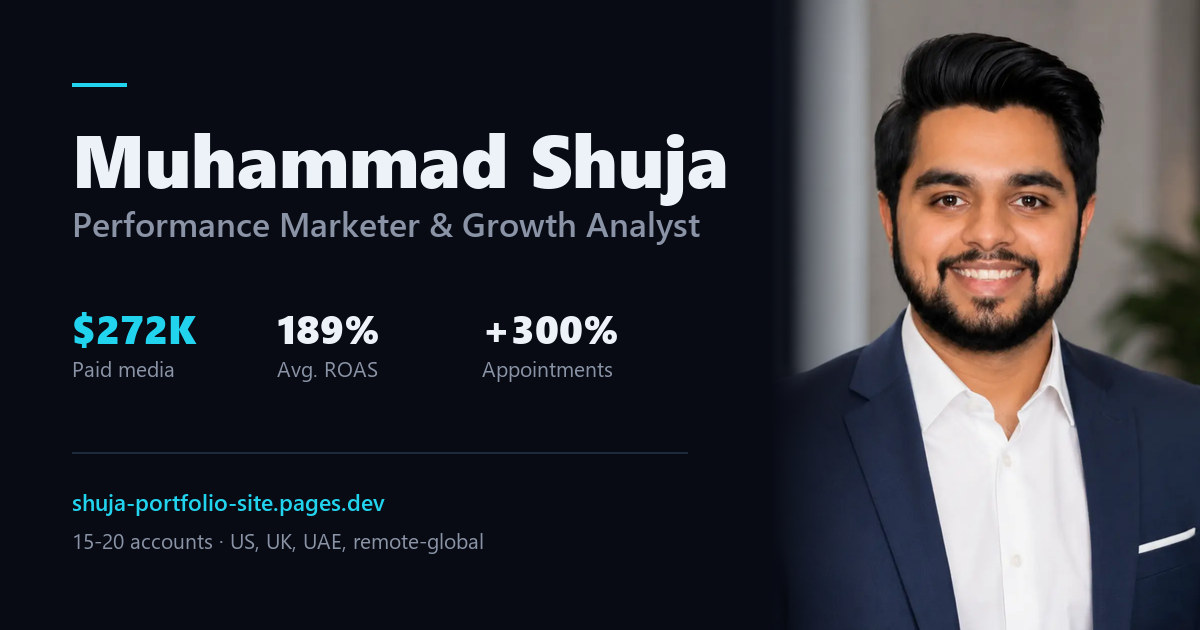
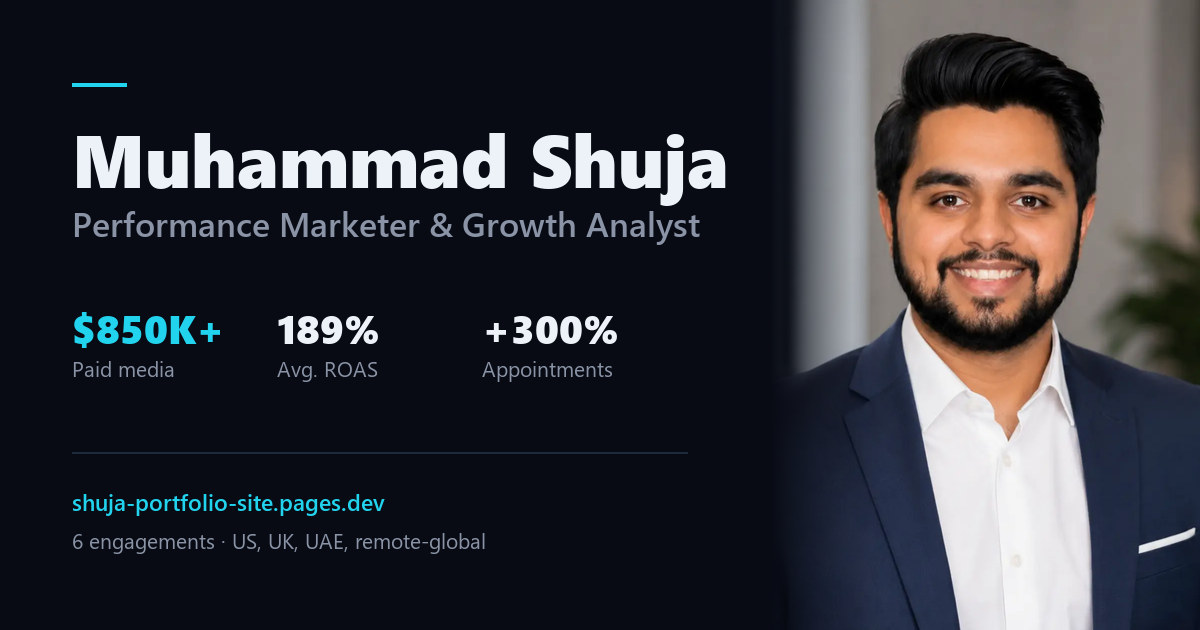
Attach the spend figures to the right scopes
The site published two cumulative paid-media numbers that contradicted each
other: $850K+ (21 occurrences, including the Brandwise case study's title,
h1 and metric strip) and $272K (the homepage hero, meta description and OG
card). A reader who saw both concluded one was inflated, which is fatal on a
site whose whole argument is that the numbers can be trusted.

Neither number was wrong. They were attached to the wrong places. $850K+ is
the career total across all six engagements; $272K is the Brandwise
engagement specifically. The homepage was publishing the client figure as
the career total, and the case study was publishing the career total as the
client figure.

Career-wide surfaces (hero stat, meta and og descriptions, OG card, KPI
tile, llms.txt, resume.json summary) now read $850K+. Brandwise surfaces
(case study, its cards on the homepage and work hub, the about narrative,
the PrimaCare teaser, resume.json bullet, llms.txt entries) now read $272K.

Account counts follow the same correction. Brandwise was the only agency
role, so it is the only engagement with a portfolio of accounts; 15-20 now
appears there and nowhere else. Career-wide claims count engagements and
markets instead, which is what they actually measure.

18.6x was also appearing portfolio-wide in three places despite being a
single Food Crowd result: the hero stat (now 189% average client ROAS, the
real portfolio-wide figure), the ticker, and the KPI tile. All three are now
[…]

Changed region(s): [[0.0617, 0.8444, 0.4008, 0.8746], [0.0617, 0.4825, 0.185, 0.5429]]

diff --git a/site/index.html b/site/index.html
@@ -4,15 +4,15 @@
 <meta charset="UTF-8">
 <meta name="viewport" content="width=device-width, initial-scale=1.0">
 <title>Muhammad Shuja · Performance Marketer & Growth Analyst</title>
-<meta name="description" content="Performance marketer and growth analyst. $272K paid media across 15-20 accounts, 189% average ROAS, +300% appointments, +134% online sales, CTR 11%-43%.">
+<meta name="description" content="Performance marketer and growth analyst. $850K+ paid media across 4 markets, 189% average ROAS, +300% appointments, +134% online sales, CTR 11%-43%.">
 <link rel="canonical" href="https://shuja-portfolio-site.pages.dev/">
 <meta property="og:type" content="website">
 <meta property="og:title" content="Muhammad Shuja · Performance Marketer & Growth Analyst">
-<meta property="og:description" content="Performance marketer and growth analyst. $272K paid media across 15-20 accounts, 189% average ROAS, +300% appointments, +134% online sales, CTR 11%-43%.">
+<meta property="og:description" content="Performance marketer and growth analyst. $850K+ paid media across 4 markets, 189% average ROAS, +300% appointments, +134% online sales, CTR 11%-43%.">
 <meta property="og:image" content="https://shuja-portfolio-site.pages.dev/assets/og-card.jpg">
 <meta property="og:image:width" content="1200">
 <meta property="og:image:height" content="630">
-<meta property="og:image:alt" content="Muhammad Shuja, performance marketer and growth analyst — $272K paid media, 189% average ROAS, +300% appointments">
+<meta property="og:image:alt" content="Muhammad Shuja, performance marketer and growth analyst — $850K+ paid media, 189% average ROAS, +300% appointments">
 <meta property="og:site_name" content="Muhammad Shuja">
 <meta name="author" content="Muhammad Shuja">
 <meta property="profile:first_name" content="Muhammad">
@@ -80,8 +80,8 @@ tracking console still mirrors the full dataLayer.  -->
   </div>
   <div class="wrap rv">
     <div class="hero-stats">
-      <div class="hstat"><div class="v">$<span data-count="272">0</span>K</div><div class="l">Paid media managed</div></div>
-      <div class="hstat"><div class="v"><span data-count="18.6">0</span>x</div><div class="l">Peak campaign ROAS</div></div>
+      <div class="hstat"><div class="v">$<span data-count="850">0</span>K<em>+</em></div><div class="l">Paid media managed</div></div>
+      <div class="hstat"><div class="v"><span data-count="189">0</span>%</div><div class="l">Average client ROAS</div></div>
       <div class="hstat"><div class="v">+<span data-count="300">0</span>%</div><div class="l">Appointment growth, 12 mo</div></div>
       <div class="hstat"><div class="v">$<span data-count="120">0</span>K</div><div class="l">Payroll automated away</div></div>
     </div>
@@ -91,8 +91,8 @@ tracking console still mirrors the full dataLayer.  -->
 <!-- TICKER -->
 <div class="ticker" aria-hidden="true">
   <div class="ticker-track">
-    <span><b>ROAS</b> 18.6x <i>▲</i></span><span><b>CTR</b> 11%→43% <i>▲</i></span><span><b>APPOINTMENTS</b> +300% <i>▲</i></span><span><b>ONLINE SALES</b> +134% <i>▲</i></span><span><b>CPA</b> $2.66 <i>▼</i></span><span><b>MQL→SQL</b> +28% <i>▲</i></span><span><b>CAC</b> −31% <i>▼</i></span><span><b>PAYROLL</b> −$120K <i>▼</i></span><span><b>COMPLIANCE</b> 60%→99% <i>▲</i></span><span><b>CLIENT ROAS AVG</b> 189% <i>▲</i></span><span><b>REPEAT RATE</b> +37% <i>▲</i></span><span><b>BRAND RECALL</b> +225% <i>▲</i></span>
-    <span><b>ROAS</b> 18.6x <i>▲</i></span><span><b>CTR</b> 11%→43% <i>▲</i></span><span><b>APPOINTMENTS</b> +300% <i>▲</i></span><span><b>ONLINE SALES</b> +134% <i>▲</i></span><span><b>CPA</b> $2.66 <i>▼</i></span><span><b>MQL→SQL</b> +28% <i>▲</i></span><span><b>CAC</b> −31% <i>▼</i></span><span><b>PAYROLL</b> −$120K <i>▼</i></span><span><b>COMPLIANCE</b> 60%→99% <i>▲</i></span><span><b>CLIENT ROAS AVG</b> 189% <i>▲</i></span><span><b>REPEAT RATE</b> +37% <i>▲</i></span><span><b>BRAND RECALL</b> +225% <i>▲</i></span>
+    <span><b>FOOD CROWD ROAS</b> 18.6x <i>▲</i></span><span><b>CTR</b> 11%→43% <i>▲</i></span><span><b>APPOINTMENTS</b> +300% <i>▲</i></span><span><b>ONLINE SALES</b> +134% <i>▲</i></span><span><b>CPA</b> $2.66 <i>▼</i></span><span><b>MQL→SQL</b> +28% <i>▲</i></span><span><b>CAC</b> −31% <i>▼</i></span><span><b>PAYROLL</b> −$120K <i>▼</i></span><span><b>COMPLIANCE</b> 60%→99% <i>▲</i></span><span><b>CLIENT ROAS AVG</b> 189% <i>▲</i></span><span><b>REPEAT RATE</b> +37% <i>▲</i></span><span><b>BRAND RECALL</b> +225% <i>▲</i></span>
+    <span><b>FOOD CROWD ROAS</b> 18.6x <i>▲</i></span><span><b>CTR</b> 11%→43% <i>▲</i></span><span><b>APPOINTMENTS</b> +300% <i>▲</i></span><span><b>ONLINE SALES</b> +134% <i>▲</i></span><span><b>CPA</b> $2.66 <i>▼</i></span><span><b>MQL→SQL</b> +28% <i>▲</i></span><span><b>CAC</b> −31% <i>▼</i></span><span><b>PAYROLL</b> −$120K <i>▼</i></span><span><b>COMPLIANCE</b> 60%→99% <i>▲</i></span><span><b>CLIENT ROAS AVG</b> 189% <i>▲</i></span><span><b>REPEAT RATE</b> +37% <i>▲</i></span><span><b>BRAND RECALL</b> +225% <i>▲</i></span>
   </div>
 </div>
 
@@ -126,7 +126,7 @@ tracking console still mirrors the full dataLayer.  -->
     <div class="tiles rv">
       <div class="tile wide">
         <div class="t">Cumulative paid media managed</div>
-        <div class="k">$272K <small>across 15-20 accounts, 4 markets</small></div>
+        <div class="k">$850K+ <small>across 6 engagements, 4 markets</small></div>
         <svg viewBox="0 0 300 44" preserveAspectRatio="none" aria-hidden="true">
           <rect class="bar dim" x="0"  y="30" width="40" height="14"/><rect class="bar dim" x="44" y="24" width="40" height="20"/>
           <rect class="bar" x="88" y="16" width="40" height="28"/><rect class="bar" x="132" y="12" width="40" height="32"/>
@@ -134,7 +134,7 @@ tracking console still mirrors the full dataLayer.  -->
         </svg>
       </div>
       <div class="tile">
-        <div class="t">Peak campaign ROAS</div>
+        <div class="t">Best single engagement ROAS <small>Food Crowd</small></div>
         <div class="k">18.6x</div>
         <svg viewBox="0 0 100 44" aria-hidden="true">
           <path class="gauge-bg" d="M 12 40 A 38 38 0 0 1 88 40"/>
@@ -149,7 +149,7 @@ tracking console still mirrors the full dataLayer.  -->
           <path class="gauge-bg" d="M 12 40 A 38 38 0 0 1 88 40"/>
           <path class="gauge-fg" d="M 12 40 A 38 38 0 0 1 70 16"/>
         </svg>
-        <div class="c">20+ accounts, conversion-based only</div>
+        <div class="c">15-20 accounts, conversion-based only</div>
       </div>
       <div class="tile">
         <div class="t">CTR, controlled testing</div>
@@ -239,8 +239,8 @@ tracking console still mirrors the full dataLayer.  -->
       </a>
       <a class="card" href="work/brandwise.html" data-cta="card_brandwise">
         <span class="tag">agency · division build</span><h3>Brandwise</h3>
-        <div class="big">$850K+ <small>media managed</small></div>
-        <p>Built the digital division from zero to 20+ accounts. CTR 11%→43%, 189% average client ROAS, retention up 100%, 12 sites shipped.</p>
+        <div class="big">$272K <small>media managed</small></div>
+        <p>Built the digital division from zero to 15-20 accounts. CTR 11%→43%, 189% average client ROAS, retention up 100%, 12 sites shipped.</p>
         <span class="go">read case →</span>
       </a>
       <a class="card" href="work/al-aaraf.html" data-cta="card_alaaraf">

diff --git a/site/work/brandwise.html b/site/work/brandwise.html
@@ -3,16 +3,16 @@
 <head>
 <meta charset="UTF-8">
 <meta name="viewport" content="width=device-width, initial-scale=1.0">
-<title>Brandwise: Building a $850K+ Media Practice | Muhammad Shuja</title>
-<meta name="description" content="Built an agency's digital division from zero: $850K+ cumulative paid media across 20+ accounts, CTR 11%→43%, 189% average client ROAS, 100% retention lift, 12 sites shipped.">
+<title>Brandwise: Building a $272K Media Practice | Muhammad Shuja</title>
+<meta name="description" content="Built an agency's digital division from zero: $272K cumulative paid media across 15-20 accounts, CTR 11%→43%, 189% average client ROAS, 100% retention lift, 12 sites shipped.">
 <link rel="canonical" href="https://shuja-portfolio-site.pages.dev/work/brandwise">
 <meta property="og:type" content="website">
-<meta property="og:title" content="Brandwise: Building a $850K+ Media Practice | Muhammad Shuja">
-<meta property="og:description" content="Built an agency's digital division from zero: $850K+ cumulative paid media across 20+ accounts, CTR 11%→43%, 189% average client ROAS, 100% retention lift, 12 sites shipped.">
+<meta property="og:title" content="Brandwise: Building a $272K Media Practice | Muhammad Shuja">
+<meta property="og:description" content="Built an agency's digital division from zero: $272K cumulative paid media across 15-20 accounts, CTR 11%→43%, 189% average client ROAS, 100% retention lift, 12 sites shipped.">
 <meta property="og:image" content="https://shuja-portfolio-site.pages.dev/assets/og-card.jpg">
 <meta property="og:image:width" content="1200">
 <meta property="og:image:height" content="630">
-<meta property="og:image:alt" content="Muhammad Shuja, performance marketer and growth analyst — $272K paid media, 189% average ROAS, +300% appointments">
+<meta property="og:image:alt" content="Muhammad Shuja, performance marketer and growth analyst — $850K+ paid media, 189% average ROAS, +300% appointments">
 <meta property="og:site_name" content="Muhammad Shuja">
 <meta name="author" content="Muhammad Shuja">
 <meta property="profile:first_name" content="Muhammad">
@@ -60,7 +60,7 @@ tracking console still mirrors the full dataLayer.  -->
 <header class="case-hero">
   <div class="wrap">
     <div class="eyebrow">case_study · 03</div>
-    <h1>Brandwise: a digital division built from <span class="accent">zero to $850K+</span></h1>
+    <h1>Brandwise: a digital division built from <span class="accent">zero to $272K</span></h1>
     <div class="meta">
       <span>role <b>Digital Marketing &amp; Business Development Executive</b></span>
       <span>period <b>Sep 2020 – Jan 2022</b></span>
@@ -70,13 +70,13 @@ tracking console still mirrors the full dataLayer.  -->
     <div class="tldr rv">
       <div class="lbl">tl;dr · 30 seconds</div>
       <p>Joined an agency with no digital division and built one: service portfolio, sales training, delivery methodology, and
-      the client roster. Grew to <b>20+ B2B and B2C accounts</b> and <b>$850K+ in cumulative managed media</b>, with
+      the client roster. Grew to <b>15-20 B2B and B2C accounts</b> and <b>$272K in cumulative managed media</b>, with
       <b>189% average client ROAS</b>, CTR lifted <b>11%→43%</b> through controlled testing, lead quality up <b>30%</b>,
       consultation-to-client conversion up <b>68%</b>, and client retention up <b>100%</b>. Shipped 12 websites along the way.</p>
     </div>
     <div class="mstrip rv">
-      <div><div class="v accent">$850K+</div><div class="l">Cumulative media managed</div></div>
-      <div><div class="v">20+</div><div class="l">Accounts</div></div>
+      <div><div class="v accent">$272K</div><div class="l">Cumulative media managed</div></div>
+      <div><div class="v">15-20</div><div class="l">Accounts</div></div>
       <div><div class="v">189%</div><div class="l">Avg client ROAS</div></div>
       <div><div class="v up">11→43%</div><div class="l">CTR via testing</div></div>
       <div><div class="v up">+68%</div><div class="l">Consult→client conversion</div></div>
@@ -96,7 +96,7 @@ tracking console still mirrors the full dataLayer.  -->
     set before launch, and budget reallocation rules agreed with the client in writing. Third, the operating hygiene that makes
     twenty accounts manageable: a single campaign naming convention, UTM governance across every link the agency shipped, and a
     standard monthly report covering wins, weaknesses, next experiments and new ideas.</p>
-    <p>That structure is what moved the numbers. Cumulative managed spend reached $850K+ across the portfolio, allocated on
+    <p>That structure is what moved the numbers. Cumulative managed spend reached $272K across the portfolio, allocated on
     funnel performance, attribution insight and keyword-level data rather than channel habit. The controlled testing program
     lifted average CTR from 11% to 43%; only variants showing sustained lift across comparable segments got scaled. Redesigned
     full-funnel acquisition targeting decision-makers raised sales-qualified lead rate 30%, inquiries rose 45%, and
@@ -126,7 +126,7 @@ tracking console still mirrors the full dataLayer.  -->
     <div class="section-head rv">
       <div class="eyebrow">interactive · the model behind every budget call</div>
       <h2>Run my CAC / ROAS model yourself.</h2>
-      <p>This is the arithmetic underneath every reallocation decision I made across those 20+ accounts. Move the sliders;
+      <p>This is the arithmetic underneath every reallocation decision I made across those 15-20 accounts. Move the sliders;
       the breakeven logic updates live. (Yes, this interaction is being tracked. Check the console.)</p>
     </div>
     <div class="calc rv" id="calc">
@@ -174,8 +174,8 @@ tracking console still mirrors the full dataLayer.  -->
       <div class="prose">
         <table class="data">
           <tr><th>Metric</th><th>Result</th><th>Measurement basis</th></tr>
-          <tr><td>Cumulative managed media</td><td class="mono">$850K+</td><td>Paid search + social across client portfolio</td></tr>
-          <tr><td>Active accounts</td><td class="mono">20+</td><td>B2B and B2C, concurrent peak 15–20</td></tr>
+          <tr><td>Cumulative managed media</td><td class="mono">$272K</td><td>Paid search + social across client portfolio</td></tr>
+          <tr><td>Active accounts</td><td class="mono">15–20</td><td>B2B and B2C, concurrent</td></tr>
           <tr><td>Average client ROAS</td><td class="mono">189%</td><td>Conversion-based campaigns across sectors</td></tr>
           <tr><td>CTR</td><td class="mono">11% → 43%</td><td>Controlled creative/audience testing program</td></tr>
           <tr><td>Sales-qualified lead rate</td><td class="mono">+30%</td><td>Full-funnel redesign, decision-maker targeting</td></tr>

diff --git a/site/work/index.html b/site/work/index.html
@@ -4,15 +4,15 @@
 <meta charset="UTF-8">
 <meta name="viewport" content="width=device-width, initial-scale=1.0">
 <title>Work: Case Studies | Muhammad Shuja</title>
-<meta name="description" content="Six case studies with full metrics: e-commerce growth at 18.6x ROAS, +300% healthcare appointments, a $850K+ agency media practice, and an AI-automated multi-unit retail operation.">
+<meta name="description" content="Six case studies with full metrics: 18.6x ROAS for an e-commerce grocery client, +300% healthcare appointments, a $272K agency media practice, and an AI-automated multi-unit retail operation.">
 <link rel="canonical" href="https://shuja-portfolio-site.pages.dev/work/">
 <meta property="og:type" content="website">
 <meta property="og:title" content="Work: Case Studies | Muhammad Shuja">
-<meta property="og:description" content="Six case studies with full metrics: e-commerce growth at 18.6x ROAS, +300% healthcare appointments, a $850K+ agency media practice, and an AI-automated multi-unit retail operation.">
+<meta property="og:description" content="Six case studies with full metrics: 18.6x ROAS for an e-commerce grocery client, +300% healthcare appointments, a $272K agency media practice, and an AI-automated multi-unit retail operation.">
 <meta property="og:image" content="https://shuja-portfolio-site.pages.dev/assets/og-card.jpg">
 <meta property="og:image:width" content="1200">
 <meta property="og:image:height" content="630">
-<meta property="og:image:alt" content="Muhammad Shuja, performance marketer and growth analyst — $272K paid media, 189% average ROAS, +300% appointments">
+<meta property="og:image:alt" content="Muhammad Shuja, performance marketer and growth analyst — $850K+ paid media, 189% average ROAS, +300% appointments">
 <meta property="og:site_name" content="Muhammad Shuja">
 <meta name="author" content="Muhammad Shuja">
 <meta property="profile:first_name" content="Muhammad">
@@ -83,8 +83,8 @@ tracking console still mirrors the full dataLayer.  -->
       </a>
       <a class="card" href="brandwise.html" data-cta="work_brandwise">
         <span class="tag">agency · 2020–22</span><h2>Brandwise</h2>
-        <div class="big">$850K+ <small>managed</small></div>
-        <p>Built an agency's digital division from nothing to 20+ B2B/B2C accounts and a repeatable testing methodology. CTR 11%→43%, average client ROAS 189%.</p>
+        <div class="big">$272K <small>managed</small></div>
+        <p>Built an agency's digital division from nothing to 15-20 B2B/B2C accounts and a repeatable testing methodology. CTR 11%→43%, average client ROAS 189%.</p>
         <span class="go">read case →</span>
       </a>
       <a class="card" href="al-aaraf.html" data-cta="work_alaaraf">

diff --git a/site/about.html b/site/about.html
@@ -12,7 +12,7 @@
 <meta property="og:image" content="https://shuja-portfolio-site.pages.dev/assets/og-card.jpg">
 <meta property="og:image:width" content="1200">
 <meta property="og:image:height" content="630">
-<meta property="og:image:alt" content="Muhammad Shuja, performance marketer and growth analyst — $272K paid media, 189% average ROAS, +300% appointments">
+<meta property="og:image:alt" content="Muhammad Shuja, performance marketer and growth analyst — $850K+ paid media, 189% average ROAS, +300% appointments">
 <meta property="og:site_name" content="Muhammad Shuja">
 <meta name="author" content="Muhammad Shuja">
 <meta property="profile:first_name" content="Muhammad">
@@ -70,7 +70,7 @@ tracking console still mirrors the full dataLayer.  -->
     years in paid media learning the corollary: most marketing problems are measurement problems wearing a creative costume.
     Fix the tracking, define the funnel stages, govern the data, and suddenly the "creative" decisions become obvious.</p>
     <p>That thesis carried me from launching a jewelry brand's first e-commerce store in Dubai, to building an agency's
-    entire digital division and a $850K+ media practice, to owning demand generation for a healthcare platform, to a master's
+    entire digital division and a $272K media practice, to owning demand generation for a healthcare platform, to a master's
     in Management Information Systems in Texas, and then to the strangest, most clarifying job on this site: running the
     operations of a $4.2M multi-unit retail group on AI automation, SQL and forecasting models, reporting straight to
     ownership.</p>
@@ -106,7 +106,7 @@ tracking console still mirrors the full dataLayer.  -->
         <div class="when">SEP 2020 – JAN 2022 · DUBAI</div>
         <h3>Digital Marketing &amp; BD Executive · Brandwise Media</h3>
         <div class="where">Built the digital division from zero</div>
-        <p>20+ accounts, $850K+ cumulative media, 189% average client ROAS, CTR 11%→43%, retention +100%, 12 sites shipped.</p>
+        <p>15-20 accounts, $272K cumulative media, 189% average client ROAS, CTR 11%→43%, retention +100%, 12 sites shipped.</p>
       </div>
       <div class="tl-item">
         <div class="when">MAR 2019 – JUN 2020 · DUBAI</div>

diff --git a/site/work/primacare.html b/site/work/primacare.html
@@ -12,7 +12,7 @@
 <meta property="og:image" content="https://shuja-portfolio-site.pages.dev/assets/og-card.jpg">
 <meta property="og:image:width" content="1200">
 <meta property="og:image:height" content="630">
-<meta property="og:image:alt" content="Muhammad Shuja, performance marketer and growth analyst — $272K paid media, 189% average ROAS, +300% appointments">
+<meta property="og:image:alt" content="Muhammad Shuja, performance marketer and growth analyst — $850K+ paid media, 189% average ROAS, +300% appointments">
 <meta property="og:site_name" content="Muhammad Shuja">
 <meta name="author" content="Muhammad Shuja">
 <meta property="profile:first_name" content="Muhammad">
@@ -176,7 +176,7 @@ tracking console still mirrors the full dataLayer.  -->
 <section>
   <div class="wrap rv">
     <div class="next-case">
-      <div><div class="eyebrow">next_case</div><h3>Brandwise: building a $850K+ media practice from an empty org chart</h3></div>
+      <div><div class="eyebrow">next_case</div><h3>Brandwise: building a $272K media practice from an empty org chart</h3></div>
       <a class="btn" href="brandwise.html" data-cta="next_brandwise">Read next →</a>
     </div>
   </div>

diff --git a/site/404.html b/site/404.html
@@ -12,7 +12,7 @@
 <meta property="og:image" content="https://shuja-portfolio-site.pages.dev/assets/og-card.jpg">
 <meta property="og:image:width" content="1200">
 <meta property="og:image:height" content="630">
-<meta property="og:image:alt" content="Muhammad Shuja, performance marketer and growth analyst — $272K paid media, 189% average ROAS, +300% appointments">
+<meta property="og:image:alt" content="Muhammad Shuja, performance marketer and growth analyst — $850K+ paid media, 189% average ROAS, +300% appointments">
 <meta property="og:site_name" content="Muhammad Shuja">
 <meta name="author" content="Muhammad Shuja">
 <meta property="profile:first_name" content="Muhammad">

diff --git a/site/blog/git-based-blog-vs-cms.html b/site/blog/git-based-blog-vs-cms.html
@@ -12,7 +12,7 @@
 <meta property="og:image" content="https://shuja-portfolio-site.pages.dev/assets/og-card.jpg">
 <meta property="og:image:width" content="1200">
 <meta property="og:image:height" content="630">
-<meta property="og:image:alt" content="Muhammad Shuja, performance marketer and growth analyst — $272K paid media, 189% average ROAS, +300% appointments">
+<meta property="og:image:alt" content="Muhammad Shuja, performance marketer and growth analyst — $850K+ paid media, 189% average ROAS, +300% appointments">
 <meta property="og:site_name" content="Muhammad Shuja">
 <meta name="author" content="Muhammad Shuja">
 <meta property="profile:first_name" content="Muhammad">

diff --git a/site/blog/index.html b/site/blog/index.html
@@ -12,7 +12,7 @@
 <meta property="og:image" content="https://shuja-portfolio-site.pages.dev/assets/og-card.jpg">
 <meta property="og:image:width" content="1200">
 <meta property="og:image:height" content="630">
-<meta property="og:image:alt" content="Muhammad Shuja, performance marketer and growth analyst — $272K paid media, 189% average ROAS, +300% appointments">
+<meta property="og:image:alt" content="Muhammad Shuja, performance marketer and growth analyst — $850K+ paid media, 189% average ROAS, +300% appointments">
 <meta property="og:site_name" content="Muhammad Shuja">
 <meta name="author" content="Muhammad Shuja">
 <meta property="profile:first_name" content="Muhammad">

diff --git a/site/colophon.html b/site/colophon.html
@@ -12,7 +12,7 @@
 <meta property="og:image" content="https://shuja-portfolio-site.pages.dev/assets/og-card.jpg">
 <meta property="og:image:width" content="1200">
 <meta property="og:image:height" content="630">
-<meta property="og:image:alt" content="Muhammad Shuja, performance marketer and growth analyst — $272K paid media, 189% average ROAS, +300% appointments">
+<meta property="og:image:alt" content="Muhammad Shuja, performance marketer and growth analyst — $850K+ paid media, 189% average ROAS, +300% appointments">
 <meta property="og:site_name" content="Muhammad Shuja">
 <meta name="author" content="Muhammad Shuja">
 <meta property="profile:first_name" content="Muhammad">

diff --git a/site/contact.html b/site/contact.html
@@ -12,7 +12,7 @@
 <meta property="og:image" content="https://shuja-portfolio-site.pages.dev/assets/og-card.jpg">
 <meta property="og:image:width" content="1200">
 <meta property="og:image:height" content="630">
-<meta property="og:image:alt" content="Muhammad Shuja, performance marketer and growth analyst — $272K paid media, 189% average ROAS, +300% appointments">
+<meta property="og:image:alt" content="Muhammad Shuja, performance marketer and growth analyst — $850K+ paid media, 189% average ROAS, +300% appointments">
 <meta property="og:site_name" content="Muhammad Shuja">
 <meta name="author" content="Muhammad Shuja">
 <meta property="profile:first_name" content="Muhammad">

diff --git a/site/projects.html b/site/projects.html
@@ -12,7 +12,7 @@
 <meta property="og:image" content="https://shuja-portfolio-site.pages.dev/assets/og-card.jpg">
 <meta property="og:image:width" content="1200">
 <meta property="og:image:height" content="630">
-<meta property="og:image:alt" content="Muhammad Shuja, performance marketer and growth analyst — $272K paid media, 189% average ROAS, +300% appointments">
+<meta property="og:image:alt" content="Muhammad Shuja, performance marketer and growth analyst — $850K+ paid media, 189% average ROAS, +300% appointments">
 <meta property="og:site_name" content="Muhammad Shuja">
 <meta name="author" content="Muhammad Shuja">
 <meta property="profile:first_name" content="Muhammad">

diff --git a/site/roadmap.html b/site/roadmap.html
@@ -12,7 +12,7 @@
 <meta property="og:image" content="https://shuja-portfolio-site.pages.dev/assets/og-card.jpg">
 <meta property="og:image:width" content="1200">
 <meta property="og:image:height" content="630">
-<meta property="og:image:alt" content="Muhammad Shuja, performance marketer and growth analyst — $272K paid media, 189% average ROAS, +300% appointments">
+<meta property="og:image:alt" content="Muhammad Shuja, performance marketer and growth analyst — $850K+ paid media, 189% average ROAS, +300% appointments">
 <meta property="og:site_name" content="Muhammad Shuja">
 <meta name="author" content="Muhammad Shuja">
 <meta property="profile:first_name" content="Muhammad">
